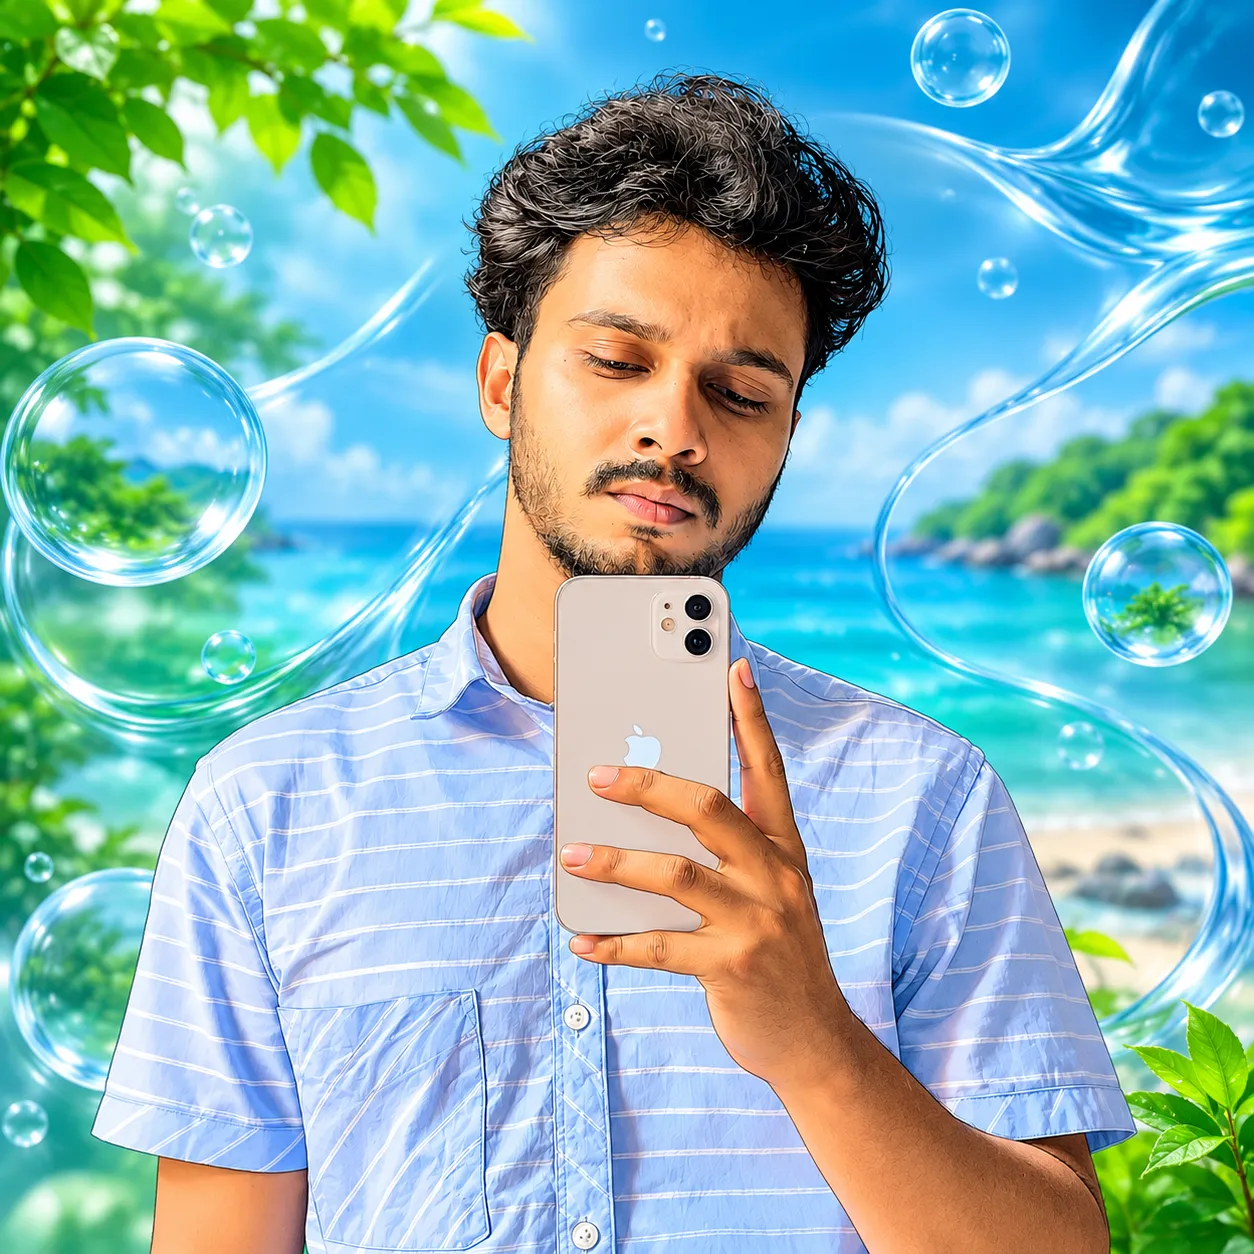
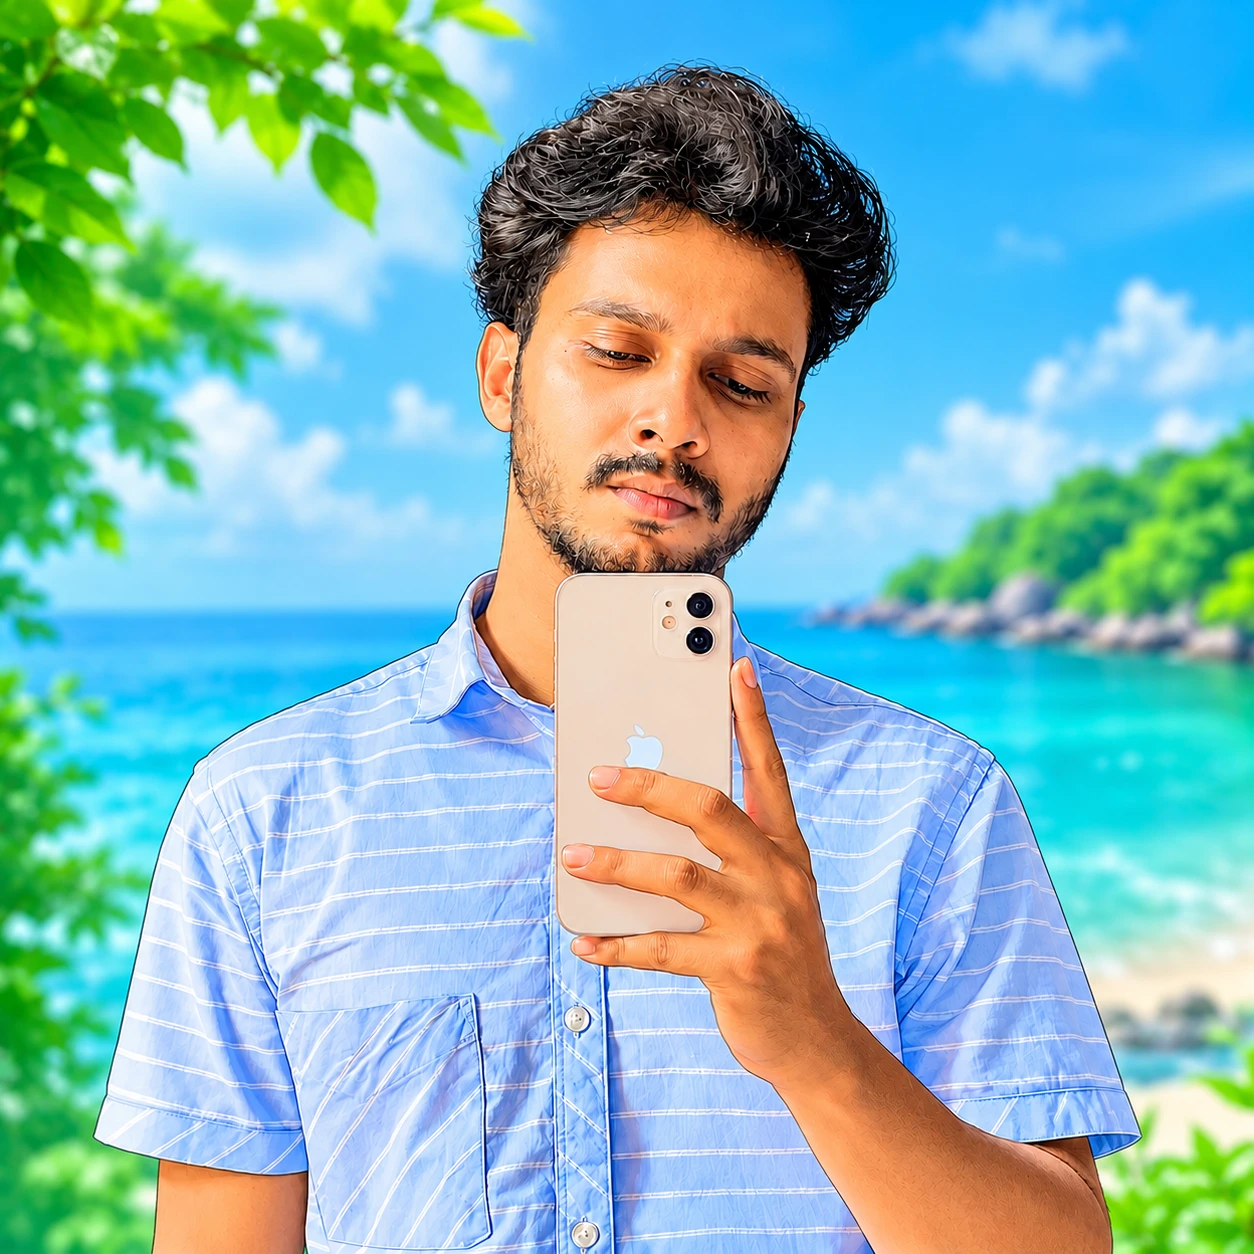
Adjust hero picture for 3 different themes

diff --git a/src/components/sections/Hero.tsx b/src/components/sections/Hero.tsx
@@ -4,6 +4,9 @@ import { useState, useEffect, useMemo } from "react";
 import { motion, useMotionValue, useSpring, useTransform } from "framer-motion";
 import { ArrowRight, Download, Mail } from "lucide-react";
 import Image from "next/image";
+import heroDark from "../../../public/images/profile/hero-dark.webp";
+import heroLight from "../../../public/images/profile/hero-light.webp";
+import heroApple from "../../../public/images/profile/hero-apple.webp";
 import { profile } from "@/data/profile";
 import { smoothScrollTo } from "@/lib/hooks";
 import { GithubIcon, LinkedinIcon, InstagramIcon, GmailIcon } from "@/components/ui/Icons";
@@ -255,7 +258,7 @@ export default function Hero() {
                 <div className="relative w-full aspect-square rounded-xl overflow-hidden mb-6 bg-slate-100 dark:bg-slate-900 border border-slate-200 dark:border-slate-800/80 shadow-md">
                   {/* Dark Mode Photo */}
                   <Image
-                    src="/images/profile/hero-dark.webp"
+                    src={heroDark}
                     alt="Rakib Hasan Piyas - Dark Theme"
                     fill
                     sizes="(max-width: 768px) 100vw, 400px"
@@ -264,7 +267,7 @@ export default function Hero() {
                   />
                   {/* Light Mode Photo */}
                   <Image
-                    src="/images/profile/hero-light.webp"
+                    src={heroLight}
                     alt="Rakib Hasan Piyas - Light Theme"
                     fill
                     sizes="(max-width: 768px) 100vw, 400px"
@@ -273,7 +276,7 @@ export default function Hero() {
                   />
                   {/* Apple Mode Photo */}
                   <Image
-                    src="/images/profile/hero-apple.webp"
+                    src={heroApple}
                     alt="Rakib Hasan Piyas - Apple Theme"
                     fill
                     sizes="(max-width: 768px) 100vw, 400px"
